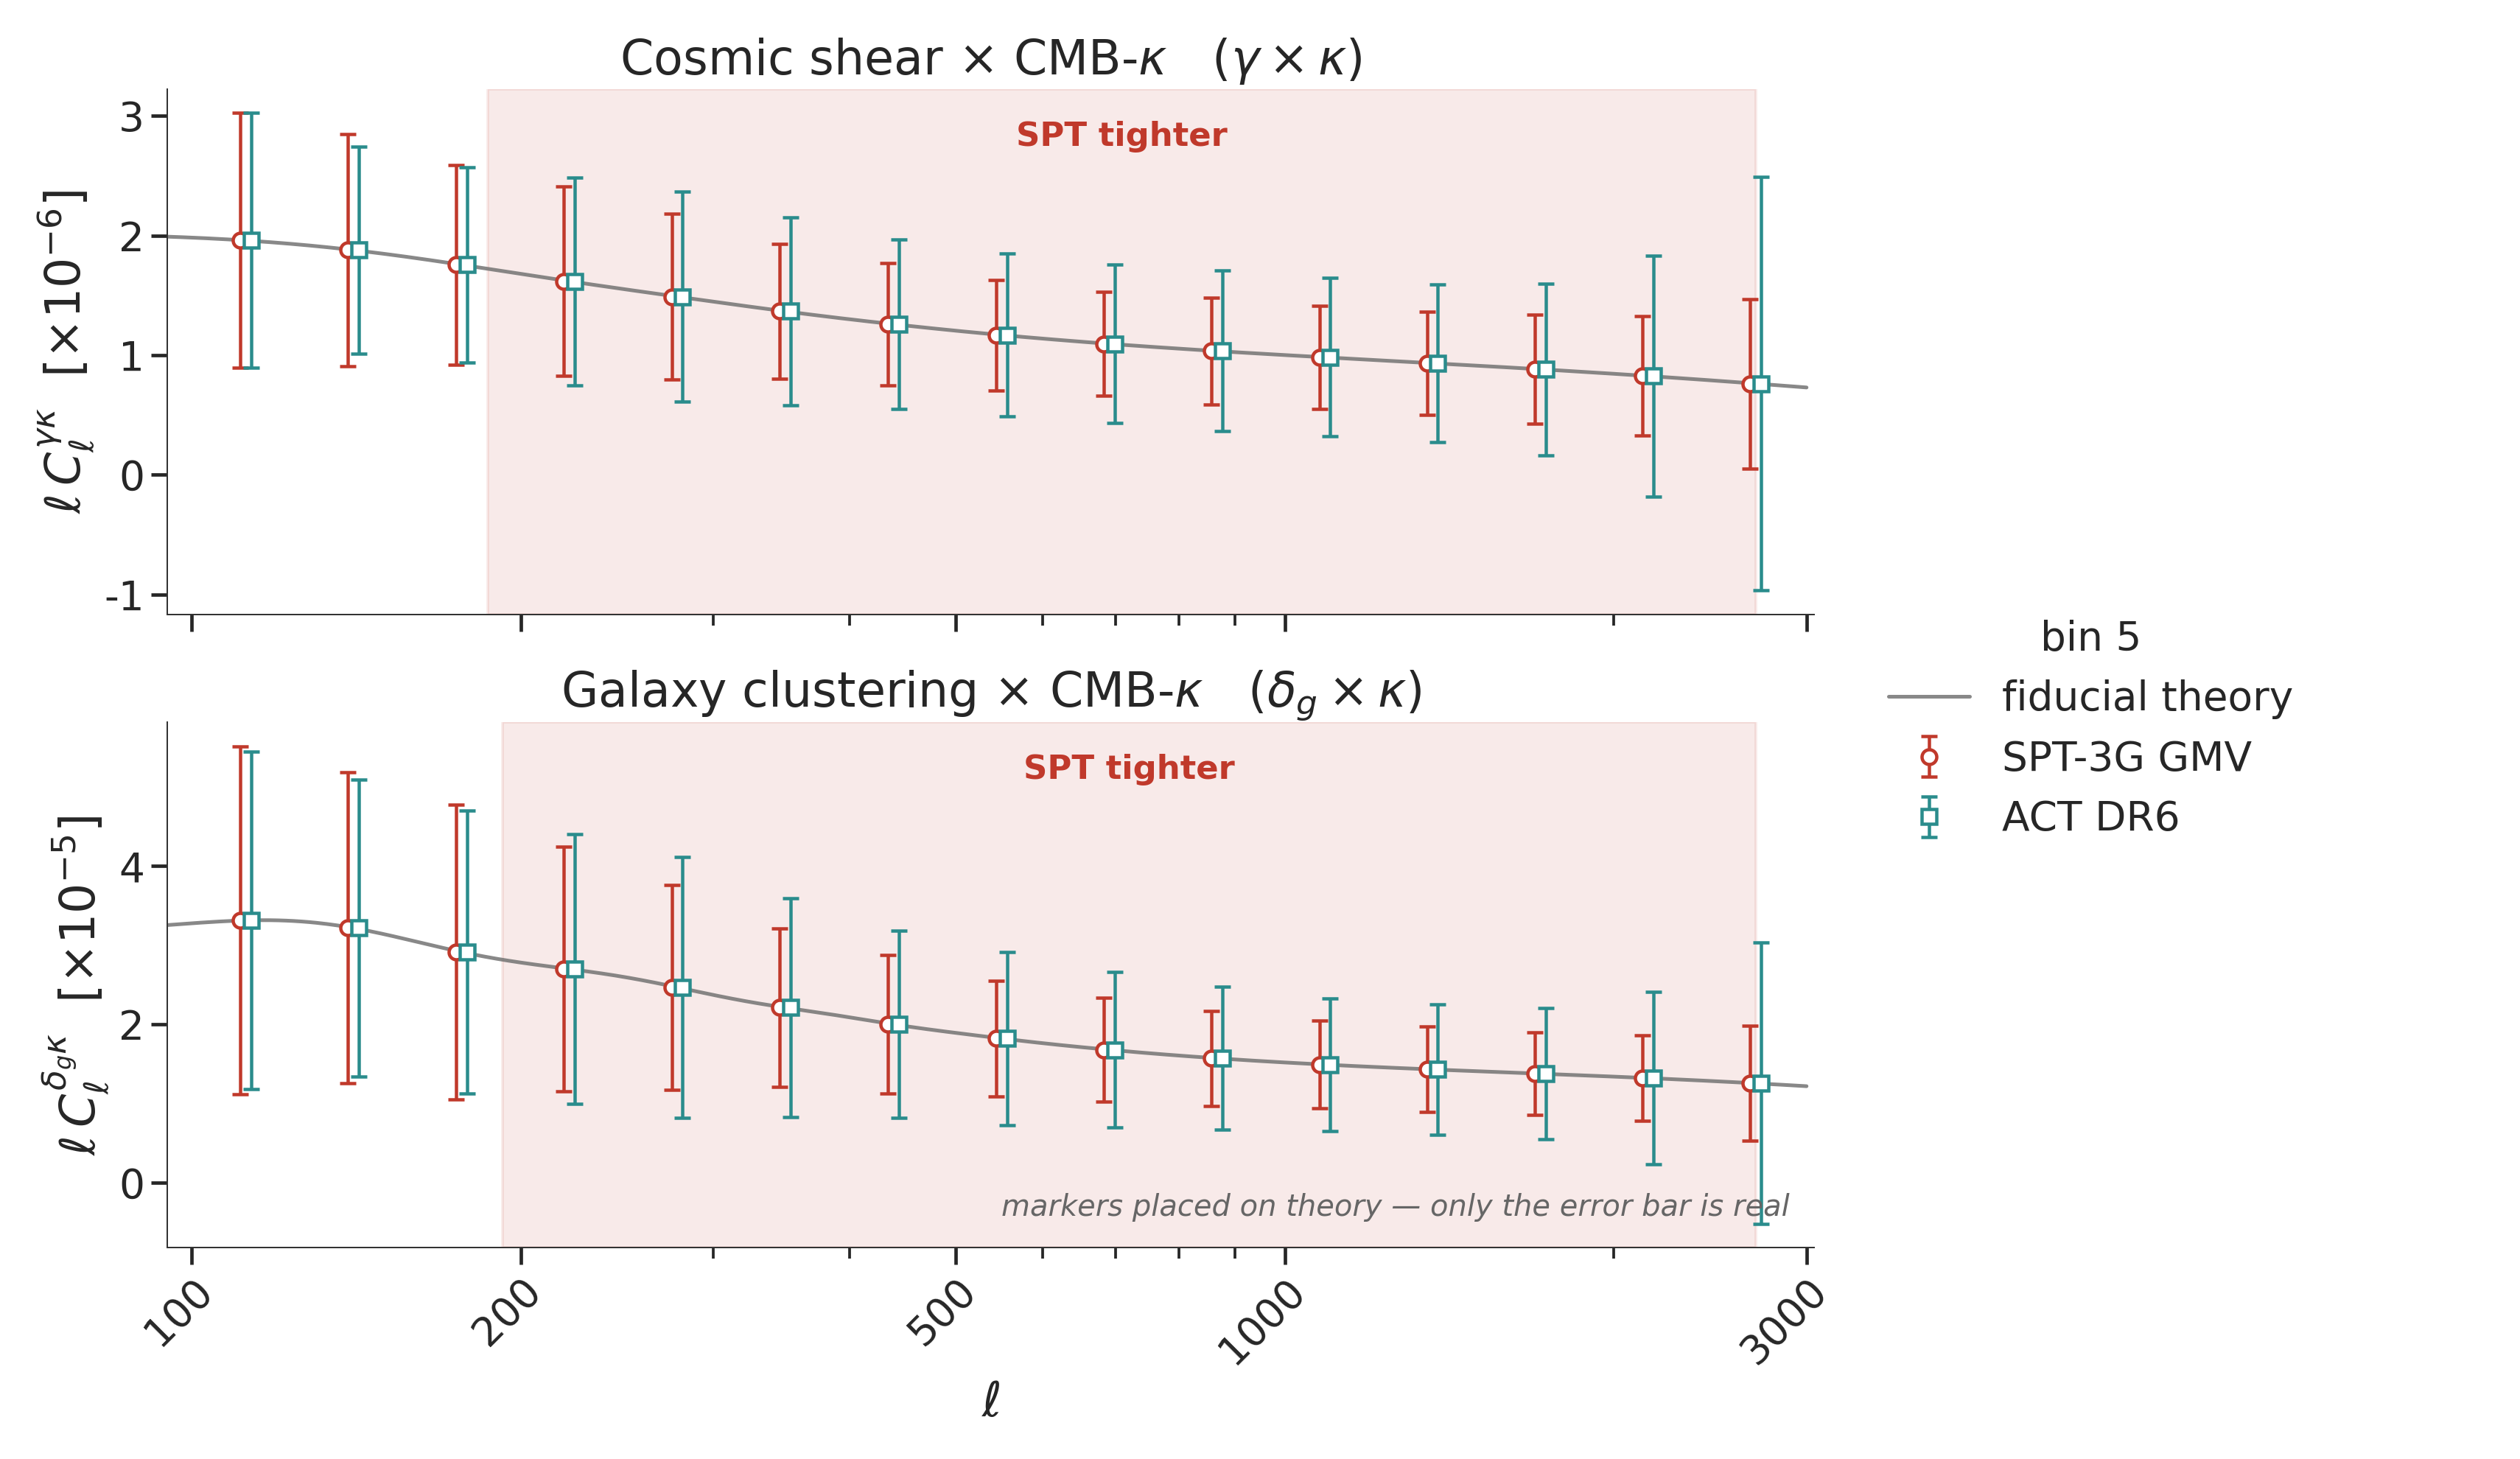
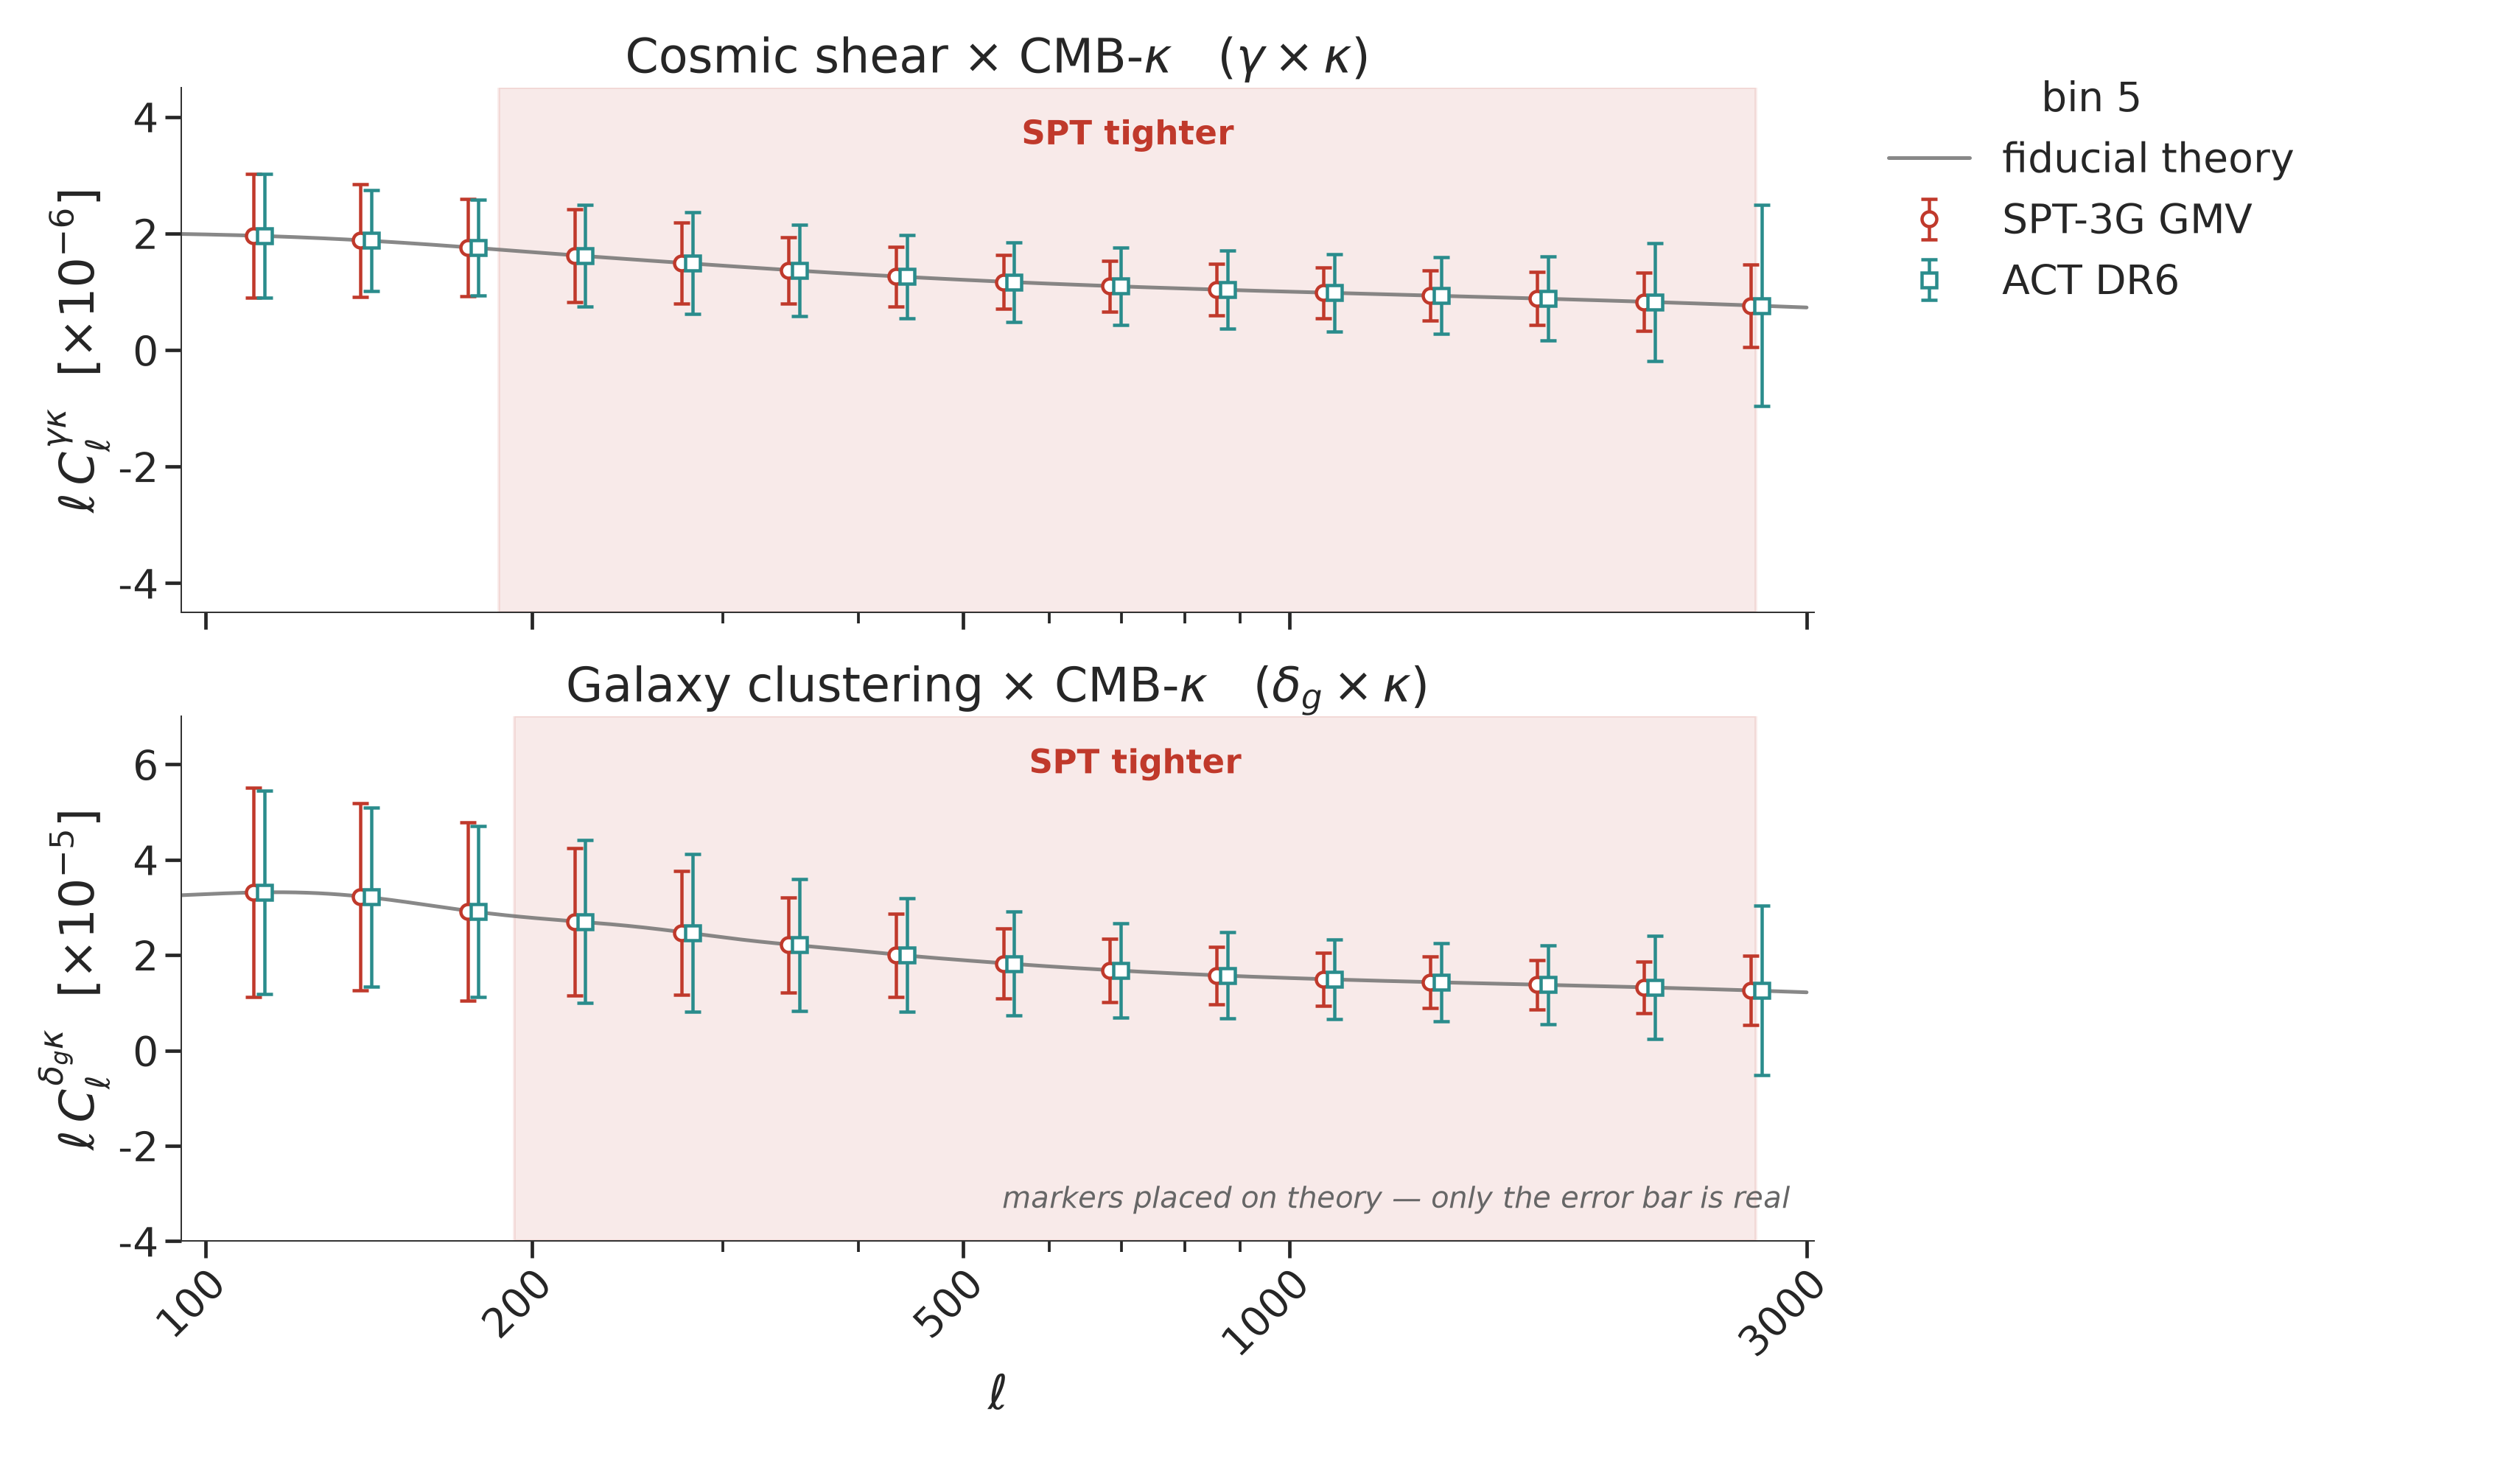
spt26 slides 6-8: shared axis limits/notation, full-height figures, top legend + slide-overlaid captions
Slides 6 (estimator-robustness), 7 (cross-survey), 8 (kappa-constraints) now share
one y-limit and one ylabel notation per probe (_ell_axis.PANEL_YLIM; estimator-
robustness's generic "ℓCℓ" label is now the same γκ/δgκ notation the other two
use), so the trio reads as one visual family scale-for-scale.

Layout: images go full-height (.fullfig in custom.scss) instead of 78%-width, and
legend_right() now anchors the legend at the TOP of its fixed right margin by
default (valign="upper"), freeing the lower margin for a short HTML caption
overlaid on the slide itself (.fullfig-note) rather than living as slide text
below the image. Slide 8's "Time to start thinking about scale cuts" moves from
below-image prose into that overlay; slide 7 gains a small "Naive χ² —
considerable overlap" caption in the same spot.

Claude-Session: https://claude.ai/code/session_011WvXCHyq2uCxw3NhRn9oRm

diff --git a/2606_SPT_summer/custom.scss b/2606_SPT_summer/custom.scss
@@ -197,6 +197,46 @@
   margin: 0.2em 0 0.6em;
 }
 
+// Full-height figure slides (6/7/8 — estimator-robustness / cross-survey /
+// kappa-constraints, "one family"): the PNG fills nearly the whole slide height
+// instead of ~78% width-constrained, so the panels read bigger, and the legend's
+// FIXED right margin (legend_right(), now top-anchored) leaves its lower portion
+// empty on purpose — a short HTML caption is overlaid there instead of living as
+// slide text below the image (the old pattern on slide 8). Position:relative
+// wrapper sized to the image's own rendered box (width: fit-content) so the
+// overlaid caption's %-offsets track the image, not the full slide width.
+.reveal .fullfig {
+  position: relative;
+  height: 90%;
+  width: fit-content;
+  margin: 0 auto;
+  display: flex;
+}
+.reveal .fullfig > img {
+  height: 100%;
+  width: auto;
+  display: block;
+}
+.reveal .fullfig-note {
+  position: absolute;
+  right: 2.5%;
+  width: 33%;
+  text-align: right;
+  line-height: 1.25;
+}
+.reveal .fullfig-note.scale-cuts {
+  top: 48%;
+  font-size: 0.95em;
+  font-weight: 700;
+  color: $cinnabar;
+}
+.reveal .fullfig-note.chi2-note {
+  top: 48%;
+  font-size: 0.7em;
+  font-style: italic;
+  color: $ink-muted;
+}
+
 // Footprint build-up (slide 3) — give each r-stack image its OWN opaque ground
 // backdrop. Without a per-image frame, all three images share the .r-stack as the
 // multiply parent and bleed through each other (white → see-through under multiply),

diff --git a/2606_SPT_summer/_ell_axis.py b/2606_SPT_summer/_ell_axis.py
@@ -33,6 +33,15 @@ from matplotlib.offsetbox import TextArea, HPacker, AnchoredOffsetbox
 
 ELL_TICKS = [100, 200, 500, 1000, 3000]
 
+# Shared y-limits for the estimator-robustness / cross-survey / kappa-constraints
+# trio (slides 6/7/8 — "read as one family"): same bin (5), same two probes (γ×κ,
+# δ_g×κ), so a fixed ℓCℓ range per probe lets the eye carry over scale from one
+# slide to the next instead of re-reading the axis each time. Padded ~15% beyond
+# the union of (data ± 1σ) across all three figures' series (computed once from
+# the on-disk products; see docs/talks/2606_SPT_summer/CLAUDE.md if it needs
+# recomputing after a data refresh).
+PANEL_YLIM = {"e": (-4.5e-6, 4.5e-6), "g": (-4.0e-5, 7.0e-5)}
+
 # Deck-wide survey identity — keep constant so people recognise "the SPT/ACT plot".
 SPT_COLOR = "#c0392b"   # SPT-3G — red (same red as the profile-hardened default series)
 ACT_COLOR = "#2a8c8c"   # ACT DR6 — teal, the constant "ACT colour" across the deck
@@ -114,7 +123,7 @@ def sn_row(ax, segments, *, loc="lower center", fontsize=22, sep=20, borderpad=0
 
 
 def legend_right(fig, handles, labels, *, title=None, fontsize=22, title_fontsize=22,
-                  axes_right=0.72, pad=0.015):
+                  axes_right=0.72, pad=0.015, valign="upper"):
     """Legend in a FIXED right margin, so the saved canvas is the SAME size regardless
     of legend content — this is what makes side-by-side deck figures (e.g. the
     estimator / cross-survey / kappa-constraints slides) come out at identical pixel
@@ -129,9 +138,16 @@ def legend_right(fig, handles, labels, *, title=None, fontsize=22, title_fontsiz
     is deck-wide constant across the scripts that call this, sized to fit the longest
     legend label in the deck at ``fontsize``; keep it constant when adding a script so
     new figures stay drop-in size-matched with the existing ones.
+
+    ``valign="upper"`` (default) anchors the legend at the TOP of the right margin —
+    this is what leaves the lower right margin empty, on purpose: the deck overlays a
+    short HTML caption there (`.fullfig-note` in custom.scss) instead of a matplotlib
+    in-figure annotation, on the slides that need one (6/7/8's scale-cuts / χ² notes).
+    Pass ``valign="center"`` for the old vertically-centred placement.
     """
     fig.subplots_adjust(right=axes_right)
-    fig.legend(handles, labels, loc="center left", bbox_to_anchor=(axes_right + pad, 0.5),
+    loc, anchor_y = ("upper left", 0.97) if valign == "upper" else ("center left", 0.5)
+    fig.legend(handles, labels, loc=loc, bbox_to_anchor=(axes_right + pad, anchor_y),
                frameon=False, fontsize=fontsize, title=title, title_fontsize=title_fontsize)
 
 

diff --git a/2606_SPT_summer/make_estimator_robustness.py b/2606_SPT_summer/make_estimator_robustness.py
@@ -42,7 +42,7 @@ import numpy as np
 import seaborn as sns
 import matplotlib.pyplot as plt
 
-from _ell_axis import style_ell_axis, fold_yscale, sn_row, blinding_watermark, legend_right
+from _ell_axis import style_ell_axis, fold_yscale, sn_row, blinding_watermark, legend_right, PANEL_YLIM
 
 ROOT = Path("/leonardo_work/EUHPC_E07_074/cdaley00/cmbx")
 # TR1. The per-estimator κ-cross pickles ({prefix}_x_spt_est_{est}.pkl) are written
@@ -70,6 +70,9 @@ PANELS = [
     ("gc", "g", ("g", "k", BIN, 0),
      r"Galaxy clustering $\times$ CMB-$\kappa$   ($\delta_g\times\kappa$)"),
 ]
+# Per-probe ℓCℓ ylabel notation — SAME strings the cross-survey / kappa-constraints
+# scripts use, so the three "one family" slides read with identical axis notation.
+PROBE_YLABEL = {"e": r"$\ell\,C_\ell^{\gamma\kappa}$", "g": r"$\ell\,C_\ell^{\delta_g\kappa}$"}
 
 p = argparse.ArgumentParser(description=__doc__)
 p.add_argument("--unblinded", action="store_true",
@@ -154,7 +157,8 @@ def draw_estimators(ax, prefix, probe, theory_key):
                     mfc=("white" if est != "gmv" else color), mew=1.4, label=label, zorder=3)
         sn.append((color, np.sqrt(chi0(cl, cov)[0])))
     style_ell_axis(ax, 95, 3050)
-    fold_yscale(ax, r"$\ell\,C_\ell$", nbins=6)
+    ax.set_ylim(*PANEL_YLIM[probe])   # shared across slides 6/7/8 — see _ell_axis.PANEL_YLIM
+    fold_yscale(ax, PROBE_YLABEL[probe], nbins=6)
     return sn
 
 

diff --git a/2606_SPT_summer/make_cross_survey.py b/2606_SPT_summer/make_cross_survey.py
@@ -50,7 +50,7 @@ from scipy import stats
 import seaborn as sns
 import matplotlib.pyplot as plt
 
-from _ell_axis import style_ell_axis, fold_yscale, sn_row, blinding_watermark, legend_right, SPT_COLOR, ACT_COLOR
+from _ell_axis import style_ell_axis, fold_yscale, sn_row, blinding_watermark, legend_right, PANEL_YLIM, SPT_COLOR, ACT_COLOR
 
 ROOT = Path("/leonardo_work/EUHPC_E07_074/cdaley00/cmbx")
 # TR1 re-sealed blinded talk data vector (cosmology-shift self-blind on TR1 data).
@@ -201,6 +201,7 @@ for ax, (family, ylabel, title, key_of) in zip(axes, PANELS):
                                 elinewidth=1.5, capsize=4, mfc="white", mew=1.7, zorder=3)
         legend_handles.setdefault(cfg["label"], container)
     style_ell_axis(ax, 95, 3050)
+    ax.set_ylim(*PANEL_YLIM[family])   # shared across slides 6/7/8 — see _ell_axis.PANEL_YLIM
     fold_yscale(ax, ylabel, nbins=6)
     ax.set_title(title, pad=8)
     chi2_red, pte, dof = cross_survey_chi2(family, BIN)

diff --git a/2606_SPT_summer/make_kappa_constraints.py b/2606_SPT_summer/make_kappa_constraints.py
@@ -32,7 +32,7 @@ import numpy as np
 import seaborn as sns
 import matplotlib.pyplot as plt
 
-from _ell_axis import style_ell_axis, fold_yscale, legend_right, SPT_COLOR, ACT_COLOR
+from _ell_axis import style_ell_axis, fold_yscale, legend_right, PANEL_YLIM, SPT_COLOR, ACT_COLOR
 
 ROOT = Path("/leonardo_work/EUHPC_E07_074/cdaley00/cmbx")
 THEORY = ROOT / "results/redshift_tr1/theory_cls.pkl"        # TR1 n(z) + self-Hann smoothing
@@ -142,6 +142,7 @@ for ax, (stem, tkey, ylabel, title) in zip(axes, PANELS):
         ax.text(center, 0.94, "SPT tighter", transform=ax.get_xaxis_transform(),
                 ha="center", va="top", fontsize=18, color=SURVEYS["SPT-3G GMV"]["color"], weight="bold")
     style_ell_axis(ax, 95, 3050)
+    ax.set_ylim(*PANEL_YLIM[tkey[0]])   # shared across slides 6/7/8 — see _ell_axis.PANEL_YLIM
     fold_yscale(ax, ylabel)
     ax.set_title(title, pad=8)
 